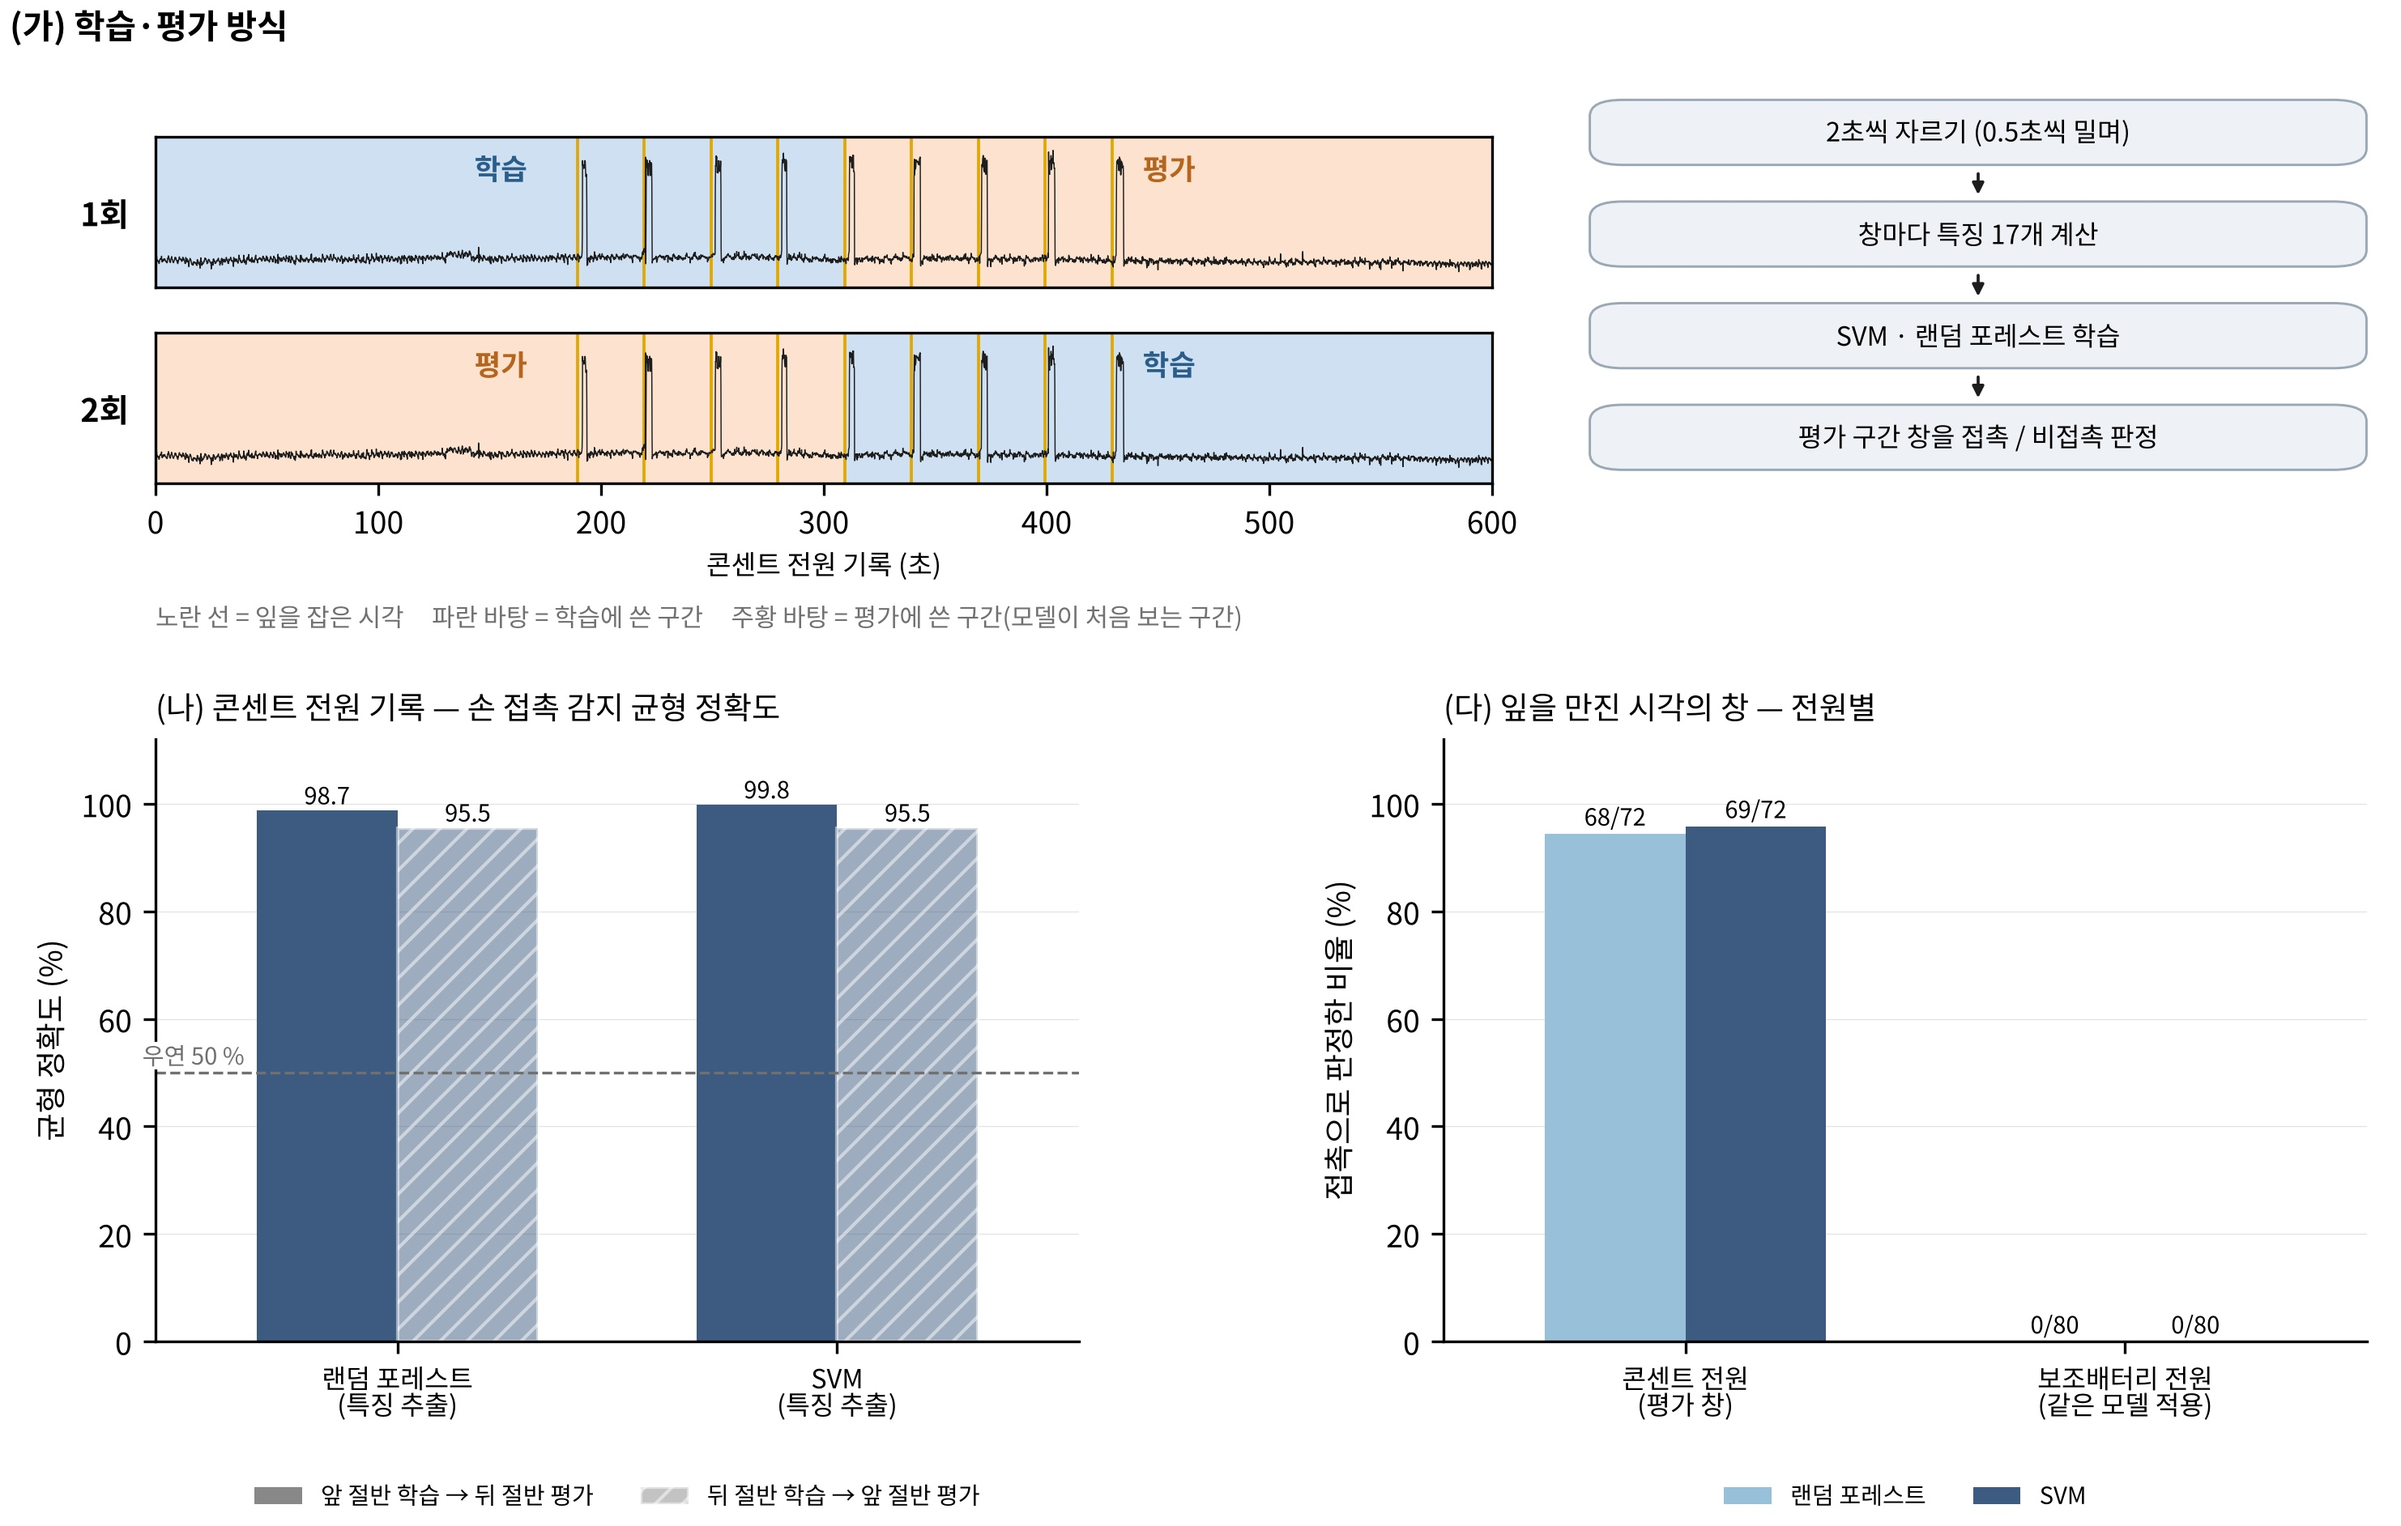
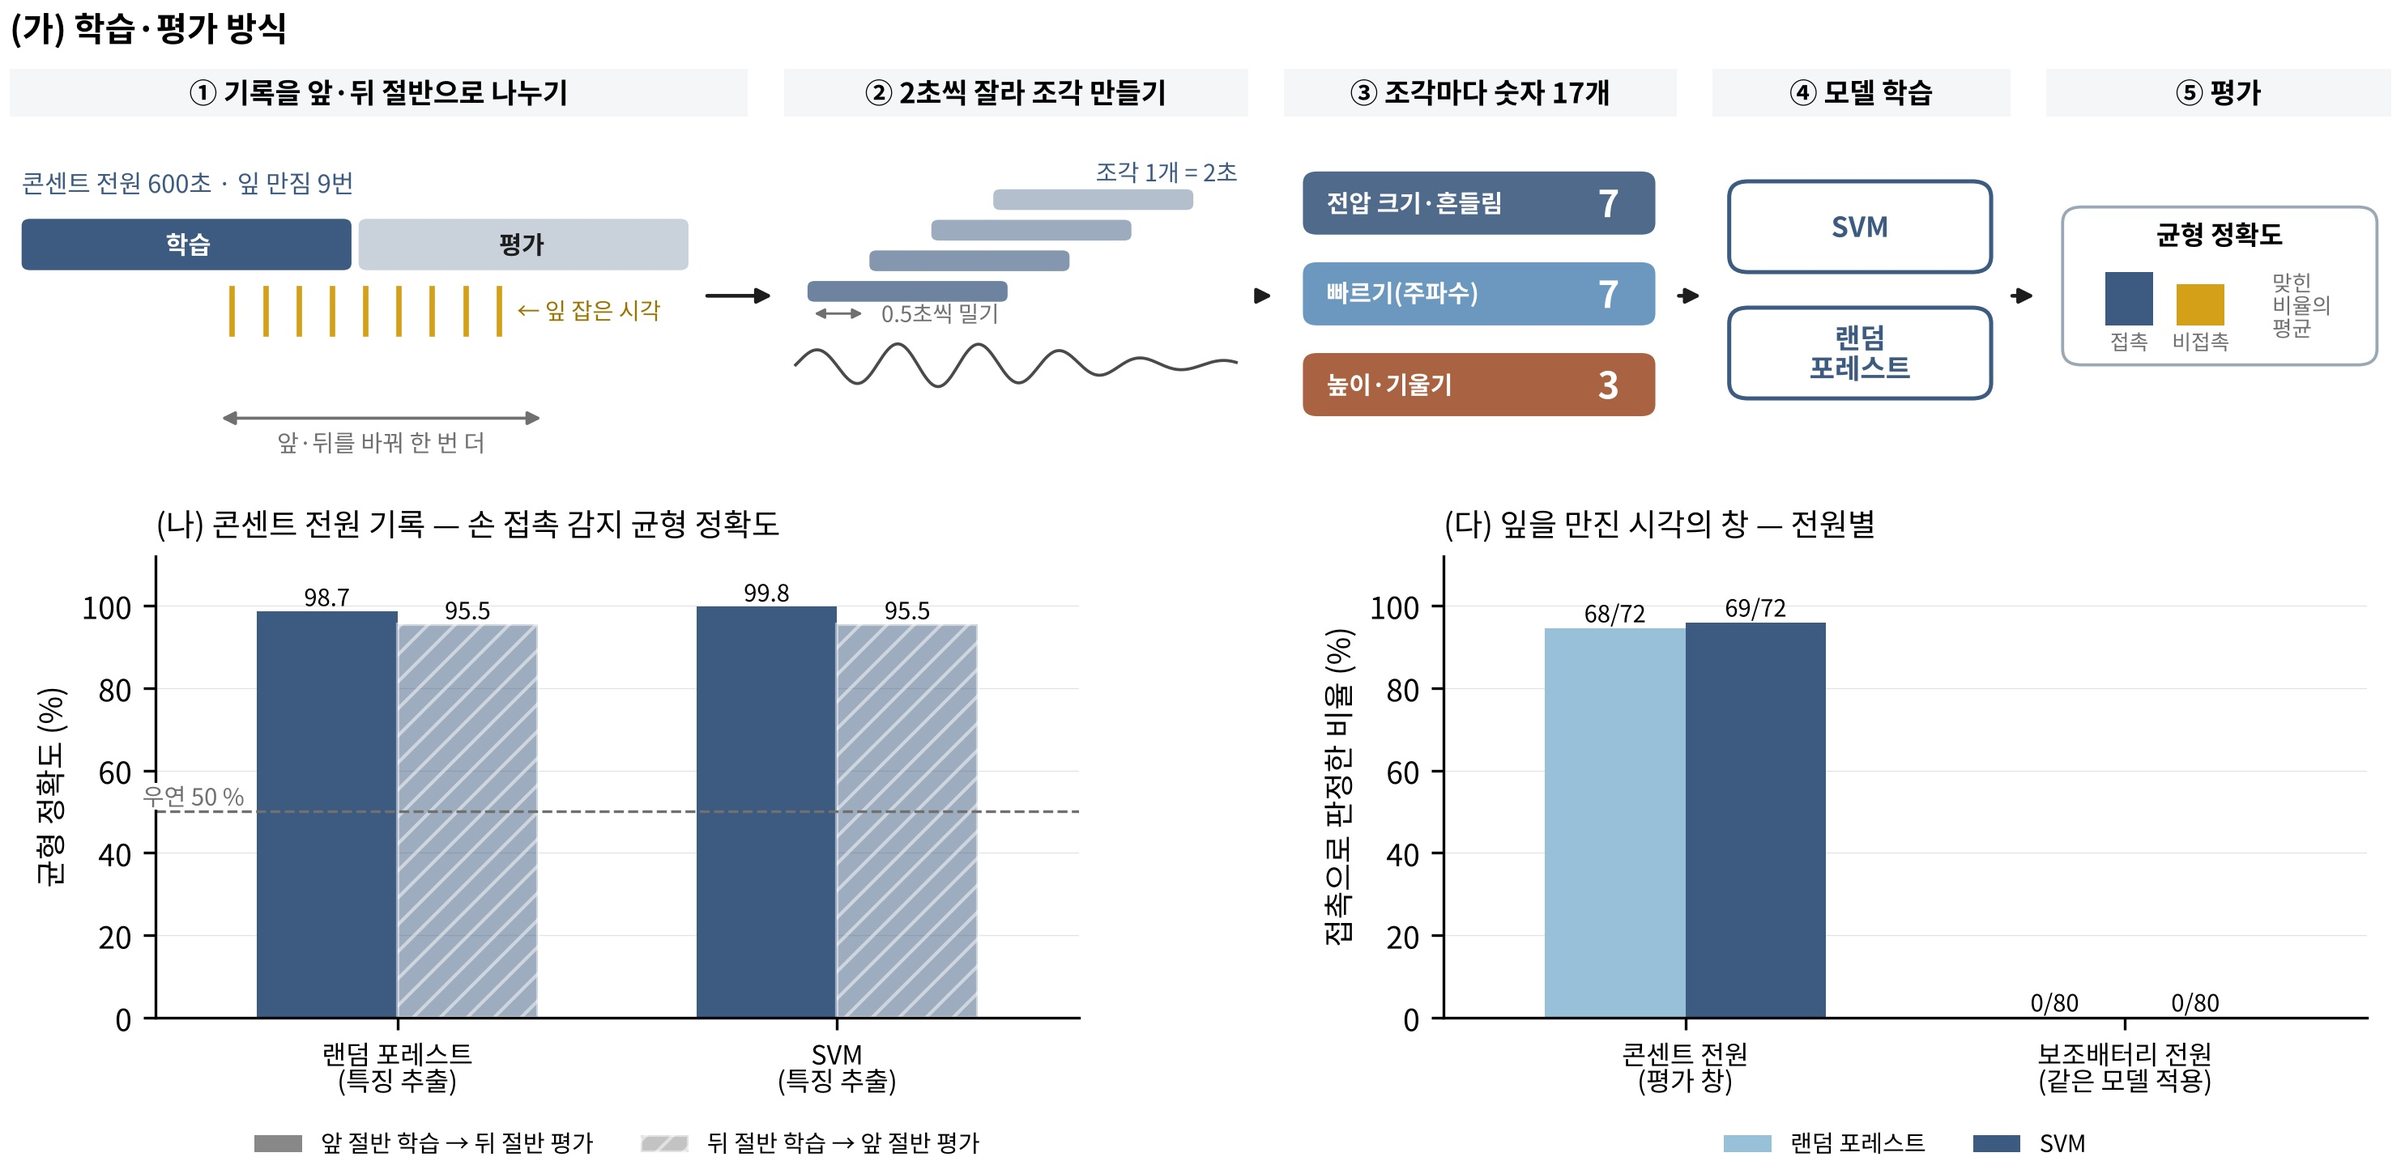
그림6 (가): 원래 모양 그대로 두고 글만 쉬운 말로(기준선 → 높이·기울기 등), 노란 선 설명은 선 옆에
Claude-Session: https://claude.ai/code/session_01JhQkgfdzNkTpKPSBfVdw6o

diff --git a/report/stim/fig_ml_eval.py b/report/stim/fig_ml_eval.py
@@ -14,35 +14,65 @@ for f in ("NotoSansCJK-Regular.ttc", "NotoSansCJK-Bold.ttc"):
 plt.rcParams.update({"font.family": "Noto Sans CJK JP", "axes.unicode_minus": False, "font.size": 9})
 INK, GRAY, OK, DRY, M1, M2, TH = "#1d1d1d", "#707070", "#1f6fb4", "#c0504d", "#3d5a80", "#98c1d9", "#b0b0b0"
 
-fig = plt.figure(figsize=(10, 6.2), dpi=300)
-# (가) 평가 방식 — 실제 콘센트 기록 위에 학습/평가 구간을 칠해 1회·2회를 보여 줌
-import sys as _s; _s.path.insert(0, os.path.dirname(__file__))
-import touch1117_ml as T
-ta, ma = T.series("자극_콘센트_20261117.csv"); za = np.median(ma)
-sa = [189.28 + 30 * k for k in range(9)]
-TRC, TEC, YEL = "#cfe0f3", "#fde3cf", "#e0a800"
-fig.text(0.01, 0.985, "(가) 학습·평가 방식", fontsize=10, fontweight="bold", va="top")
-for r, (lab, tr, te) in enumerate((("1회", (0, 310), (310, 600)), ("2회", (310, 600), (0, 310)))):
-    a = fig.add_axes([0.07, 0.80 - r * 0.13, 0.55, 0.10])
-    a.axvspan(*tr, color=TRC, lw=0); a.axvspan(*te, color=TEC, lw=0)
-    for s_ in sa: a.axvline(s_, color=YEL, lw=0.9)
-    a.plot(ta, ma - za, color=INK, lw=0.35)
-    a.set_xlim(0, 600); a.set_ylim(-40, 175); a.set_yticks([]); a.set_xticks([] if r == 0 else [0, 100, 200, 300, 400, 500, 600])
-    if r == 1: a.set_xlabel("콘센트 전원 기록 (초)", fontsize=8)
-    a.text(-12, 65, lab, ha="right", va="center", fontsize=9.5, fontweight="bold")
-    a.text(sum(tr) / 2, 150, "학습", ha="center", va="top", fontsize=8.5, color="#2b5d8a", fontweight="bold")
-    a.text(sum(te) / 2, 150, "평가", ha="center", va="top", fontsize=8.5, color="#b5651d", fontweight="bold")
-p_ = fig.add_axes([0.65, 0.66, 0.34, 0.27]); p_.axis("off"); p_.set_xlim(0, 10); p_.set_ylim(0, 10)
-chips = ["2초씩 자르기 (0.5초씩 밀며)", "창마다 특징 17개 계산", "SVM · 랜덤 포레스트 학습", "평가 구간 창을 접촉 / 비접촉 판정"]
-for k, t_ in enumerate(chips):
-    y = 9.0 - k * 2.5
-    p_.add_patch(FancyBboxPatch((0.3, y - 0.8), 9.4, 1.6, boxstyle="round,pad=0,rounding_size=0.4", fc="#eef2f6", ec="#9aa7b4", lw=0.7))
-    p_.text(5, y, t_, ha="center", va="center", fontsize=7.8)
-    if k < 3: p_.annotate("", (5, y - 1.7), (5, y - 0.85), arrowprops=dict(arrowstyle="-|>", lw=0.9, color=INK, mutation_scale=7))
-fig.text(0.07, 0.575, "노란 선 = 잎을 잡은 시각     파란 바탕 = 학습에 쓴 구간     주황 바탕 = 평가에 쓴 구간(모델이 처음 보는 구간)", fontsize=7.4, color=GRAY)
+fig = plt.figure(figsize=(10, 5.0), dpi=300)
+# (가) 학습·평가 방식 — 회로 구성도(그림2)와 같은 단계 띠 + 그림 위주
+a = fig.add_axes([0.01, 0.60, 0.98, 0.39]); a.set_xlim(0, 100); a.set_ylim(0, 24); a.axis("off")
+a.text(0, 23.9, "(가) 학습·평가 방식", fontsize=10, fontweight="bold", va="top")
+PAPER = "#f4f6f8"
+def band(x0, x1, t):
+    a.add_patch(FancyBboxPatch((x0, 18.6), x1 - x0, 2.4, boxstyle="square,pad=0", fc=PAPER, ec="none"))
+    a.text((x0 + x1) / 2, 19.8, t, ha="center", va="center", fontsize=8.3, fontweight="bold")
+def arrow(x0, x1, y=9.5):
+    a.annotate("", (x1, y), (x0, y), arrowprops=dict(arrowstyle="-|>", lw=1.1, color=INK, mutation_scale=9))
+band(0, 31, "① 기록을 앞·뒤 절반으로 나누기"); band(32.5, 52, "② 2초씩 잘라 조각 만들기"); band(53.5, 70, "③ 조각마다 숫자 17개")
+band(71.5, 84, "④ 모델 학습"); band(85.5, 100, "⑤ 평가")
+# ① 콘센트 기록 600초: 만진 시각 9번, 앞 4번/뒤 5번
+L = 28.0
+a.add_patch(FancyBboxPatch((0.5, 10.8), L * 0.5 - 0.15, 2.6, boxstyle="round,pad=0,rounding_size=0.35", fc=M1, ec="none"))
+a.add_patch(FancyBboxPatch((0.5 + L * 0.5 + 0.15, 10.8), L * 0.5 - 0.15, 2.6, boxstyle="round,pad=0,rounding_size=0.35", fc=M1, alpha=0.28, ec="none"))
+a.text(0.5 + L * 0.25, 12.1, "학습", ha="center", va="center", fontsize=7.3, color="white", fontweight="bold")
+a.text(0.5 + L * 0.75, 12.1, "평가", ha="center", va="center", fontsize=7.3, color=INK, fontweight="bold")
+a.text(0.5, 15.2, "콘센트 전원 600초 · 잎 만짐 9번", fontsize=7.4, color=M1, va="center")
+for k in range(9):
+    x = 0.5 + L * (189.28 + 30 * k) / 600
+    a.plot([x, x], [7.6, 9.9], color="#d4a017", lw=1.6)
+a.text(21.3, 8.75, "← 잎 잡은 시각", fontsize=6.8, color="#9a7400", va="center")
+a.annotate("", (8.6, 3.3), (22.6, 3.3), arrowprops=dict(arrowstyle="<|-|>", lw=0.9, color=GRAY, mutation_scale=8))
+a.text(15.6, 1.6, "앞·뒤를 바꿔 한 번 더", ha="center", fontsize=7, color=GRAY)
+arrow(29.0, 32.3)
+# ② 신호 + 겹치는 창
+xx = np.linspace(0, 1, 400)
+a.plot(33 + 18.5 * xx, 6.0 + 1.1 * np.sin(xx * 34) * (0.6 + 0.4 * np.sin(xx * 5)), color="#4a4a4a", lw=0.9)
+for k in range(4):
+    x = 33.5 + k * 2.6
+    a.add_patch(FancyBboxPatch((x, 9.2 + k * 1.55), 8.4, 1.05, boxstyle="round,pad=0,rounding_size=0.3", fc=M1, alpha=0.75 - k * 0.12, ec="none"))
+a.text(45.6, 15.3, "조각 1개 = 2초", fontsize=7, color=M1, ha="left")
+a.annotate("", (36.1, 8.6), (33.5, 8.6), arrowprops=dict(arrowstyle="<|-|>", lw=0.7, color=GRAY, mutation_scale=6))
+a.text(36.6, 8.6, "0.5초씩 밀기", ha="left", va="center", fontsize=6.6, color=GRAY)
+arrow(52.2, 53.3)
+# ③ 특징 칩 3개
+for k, (t1, n, col) in enumerate((("전압 크기·흔들림", "7", "#3d5a80"), ("빠르기(주파수)", "7", "#5c8db8"), ("높이·기울기", "3", "#a0522d"))):
+    y = 14.2 - k * 4.6
+    a.add_patch(FancyBboxPatch((54.3, y - 1.6), 14.8, 3.2, boxstyle="round,pad=0,rounding_size=0.6", fc=col, ec="none", alpha=0.9))
+    a.text(55.3, y, t1, va="center", fontsize=7.2, color="white", fontweight="bold")
+    a.text(67.6, y, n, va="center", ha="right", fontsize=11, color="white", fontweight="bold")
+arrow(69.8, 71.3)
+# ④ 모델 두 개
+for k, t1 in enumerate(("SVM", "랜덤\n포레스트")):
+    y = 13.0 - k * 6.4
+    a.add_patch(FancyBboxPatch((72.2, y - 2.3), 11.0, 4.6, boxstyle="round,pad=0,rounding_size=0.8", fc="white", ec=M1, lw=1.2))
+    a.text(77.7, y, t1, ha="center", va="center", fontsize=8.2, fontweight="bold", color=M1, linespacing=1.1)
+arrow(83.8, 85.3)
+# ⑤ 균형 정확도
+a.add_patch(FancyBboxPatch((86.2, 6.0), 13.2, 8.0, boxstyle="round,pad=0,rounding_size=0.8", fc="white", ec="#9aa7b4", lw=0.9))
+a.text(92.8, 12.6, "균형 정확도", ha="center", va="center", fontsize=7.8, fontweight="bold")
+for k, (h, c) in enumerate(((0.9, M1), (0.7, "#d4a017"))):
+    a.add_patch(FancyBboxPatch((88.0 + k * 3.0, 8.0), 2.0, 3.0 * h, boxstyle="square,pad=0", fc=c, ec="none"))
+a.text(89.0, 7.7, "접촉", ha="center", va="top", fontsize=6.2, color=GRAY); a.text(92.0, 7.7, "비접촉", ha="center", va="top", fontsize=6.2, color=GRAY)
+a.text(95.0, 9.0, "맞힌\n비율의\n평균", fontsize=6.4, color=GRAY, va="center", linespacing=1.05)
 
 # (나) 콘센트 기록 평가
-b = fig.add_axes([0.07, 0.10, 0.38, 0.40])
+b = fig.add_axes([0.07, 0.16, 0.38, 0.38])
 labs = ["랜덤 포레스트\n(특징 추출)", "SVM\n(특징 추출)"]
 fwd = [98.7, 99.8]; bwd = [95.5, 95.5]
 xs = np.arange(2); w = 0.32
@@ -57,7 +87,7 @@ from matplotlib.patches import Patch
 b.legend(handles=[Patch(fc="#888888", label="앞 절반 학습 → 뒤 절반 평가"), Patch(fc="#888888", alpha=0.5, hatch="///", ec="white", label="뒤 절반 학습 → 앞 절반 평가")],
          fontsize=7, loc="upper center", bbox_to_anchor=(0.5, -0.2), ncol=2, frameon=False)
 # (다) 전원별: 잎 만진 창을 접촉으로 판정한 비율(콘센트 = 평가 두 방향 합, 배터리 = 콘센트 전체로 학습한 모델 적용)
-c = fig.add_axes([0.60, 0.10, 0.38, 0.40])
+c = fig.add_axes([0.60, 0.16, 0.38, 0.38])
 grp = ["콘센트 전원\n(평가 창)", "보조배터리 전원\n(같은 모델 적용)"]
 rfv = [68 / 72, 0 / 80]; svv = [69 / 72, 0 / 80]; lab_rf = ["68/72", "0/80"]; lab_sv = ["69/72", "0/80"]
 xs2 = np.arange(2); w2 = 0.32

diff --git a/CLAUDE.md b/CLAUDE.md
@@ -254,7 +254,7 @@ docs/HISTORY.md       2026-11-05 까지의 이 파일 전문
 - 쪽수는 한글에서만 확실하다(`report/stim/pagesim.py` 는 추정).
 - 온도 문장은 "실내 온도는 약 27 ℃였다" 그대로(사용자 결정, 다시 묻지 마라).
 
-- **2026-11-19 최종 본문 = `report/최종보고서_본문_20261119.md`**(사용자 "보고서 완성해"). 7절 A~E 를 반영하고, 정상·물 공급 중단 **분류 결과는 뺐다**(기록·잡음만, 그림4 = 날짜별 잡음). 손 접촉은 11-17 전원별 재실험(main `data/faraday/자극_배터리·콘센트_20261117.*`)으로 바꿈: Ⅳ-2 예비 계단은 짧게, **Ⅳ-6 전원별 손 접촉 + 손 접촉 감지 모델**(`report/stim/touch1117_ml.py` → `touch1117_ml.json`: 2초 창·0.5초 이동, 접촉 72·비접촉 878, RF 98.7/95.5·SVM 99.8/95.5 %, 배터리 기록 적용 0/80). 그림 순서: … 그림4 날짜별 잡음 · **그림5 전원별 손 접촉**(`fig_touch_power.py`) · **그림6 모델 학습·평가**(`fig_ml_eval.py`; 사용자 지시로 (가) 평가 방식만 다시 그림 — 콘센트 기록 파형 위에 1회·2회 학습/평가 구간을 칠함. (나)(다) 막대는 그대로) · 그림7 실시간 판정 화면. 사용자가 한글에서 붙여 넣는다. **한글 파일 = `report/GML_결과보고서_최종_20261119.hwpx`**(`report/stim/edit_1119.py`: 20261117.hwpx 에 본문 넣고 그림 9개를 빼고(캡션만 남김) 줄 배치 전부 지움 — 사용자가 JPG 를 캡션 위에 넣음. pagesim 추정 글만 약 10쪽, 한글 확인 필요). "새 식물"이라는 말도 뺐다.
+- **2026-11-19 최종 본문 = `report/최종보고서_본문_20261119.md`**(사용자 "보고서 완성해"). 7절 A~E 를 반영하고, 정상·물 공급 중단 **분류 결과는 뺐다**(기록·잡음만, 그림4 = 날짜별 잡음). 손 접촉은 11-17 전원별 재실험(main `data/faraday/자극_배터리·콘센트_20261117.*`)으로 바꿈: Ⅳ-2 예비 계단은 짧게, **Ⅳ-6 전원별 손 접촉 + 손 접촉 감지 모델**(`report/stim/touch1117_ml.py` → `touch1117_ml.json`: 2초 창·0.5초 이동, 접촉 72·비접촉 878, RF 98.7/95.5·SVM 99.8/95.5 %, 배터리 기록 적용 0/80). 그림 순서: … 그림4 날짜별 잡음 · **그림5 전원별 손 접촉**(`fig_touch_power.py`) · **그림6 모델 학습·평가**(`fig_ml_eval.py`; 사용자 지시로 (가) 글만 쉬운 말로: "기록을 앞·뒤 절반으로 나누기 / 2초씩 잘라 조각 / 조각마다 숫자 17개(전압 크기·흔들림 7, 빠르기(주파수) 7, 높이·기울기 3) / 모델 학습 / 평가", 노란 선은 옆에 "← 잎 잡은 시각"만. 그림 모양·(나)(다)는 그대로 — 모양을 바꾸지 마라) · 그림7 실시간 판정 화면. 사용자가 한글에서 붙여 넣는다. **한글 파일 = `report/GML_결과보고서_최종_20261119.hwpx`**(`report/stim/edit_1119.py`: 20261117.hwpx 에 본문 넣고 그림 9개를 빼고(캡션만 남김) 줄 배치 전부 지움 — 사용자가 JPG 를 캡션 위에 넣음. pagesim 추정 글만 약 10쪽, 한글 확인 필요). "새 식물"이라는 말도 뺐다.
 
 ## 7. 보고서 고칠 목록 (2026-11-17 검토, 사용자가 한글에서 직접 고친다)
 
